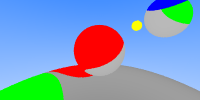
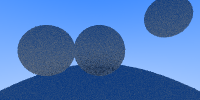
Removed hard shadow code for now. First attempt at diffuse lighting, doesn't work yet :P

diff --git a/classes.py b/classes.py
@@ -43,32 +43,22 @@ class Ray():
             return None
 
     def trace(self, scene):
-
         # check for hits and get hits with lowest ray parameter
         hit_result = self.get_intersection(scene.scene_objects)
 
         # if there was a hit draw it, else draw background
         if hit_result:
-            # create a ray from hitpoint towards the light
-            hit_point = self.get_point(hit_result[0])
-            shadow_origin = hit_point + hit_result[1].get_normal(hit_point) * 0.0001
-            shadow_direction = scene.lights[0].position - shadow_origin
-            shadow_ray = Ray(shadow_origin, shadow_direction)
+            # trace a new ray in a random direction
+            new_origin = self.get_point(hit_result[0])
+            new_target = new_origin + hit_result[1].get_normal(new_origin) + helpers.random_point()
+            new_direction = (new_target - new_origin).get_unit()
+            new_ray = Ray(new_origin, new_direction)
 
-            # don't check for shadow intersection with self
-            scene_without_self = scene.scene_objects[:]
-            scene_without_self.remove(hit_result[1])
-
-            shadow_result = shadow_ray.get_intersection(scene_without_self, any_hit=True)
+            col  = new_ray.trace(scene) * 0.5
             
-            if shadow_result:
-                col = shadow_result[1].color_vector
-            else:
-                col = helpers.distance_to_greyscale(hit_result[0], min_value=1, max_value=10)
-                # col = min_object.color_vector.get_rgb()
-        elif self.hit_sphere(scene.lights[0].render_sphere):
-            # draw the light
-            col = Vec3(1,1,0)
+        # elif self.hit_sphere(scene.lights[0].render_sphere):
+        #     # draw the light
+        #     col = Vec3(1,1,0)
         else:
             # draw the background
             col = helpers.color(self)
@@ -113,6 +103,12 @@ class Vec3():
     def get_unit(self):
         length = self.get_length()
         return Vec3(self.x / length, self.y / length, self.z / length)
+
+    def get_rgb(self):
+        return (self.x * 255, self.y * 255, self.z * 255)
+
+    def get_squared(self):
+        return self.x**2 + self.y**2 + self.z**2
     
     def dot(self, other):
         return self.x * other.x + self.y * other.y + self.z * other.z
@@ -135,9 +131,6 @@ class Vec3():
             return Vec3(self.x / other.x, self.y / other.y, self.z / other.z)
         else:
             return Vec3(self.x / other, self.y / other, self.z / other)
-
-    def get_rgb(self):
-        return (self.x * 255, self.y * 255, self.z * 255)
 
     def __str__(self):
         return str(self.get_tuple())

diff --git a/rt.py b/rt.py
@@ -15,8 +15,8 @@ def render(scene, cam=Camera(200, 100), num_rays=1):
             
             # shoot multiple rays within pixel
             for i in range(num_rays):
-                ray_x = world_x + rnd.random() * cam.x_step
-                ray_y = world_y + rnd.random() * cam.y_step
+                ray_x = world_x + rnd.uniform(0,1) * cam.x_step
+                ray_y = world_y + rnd.uniform(0,1) * cam.y_step
 
                 # shoot ray through pixel
                 ray = Ray(Vec3(0,0,0), Vec3(ray_x, ray_y, -1))
@@ -41,10 +41,11 @@ def main():
         scene.add_light(Light(Vec3(.75,.5,-2)))
         scene.add_scene_object(Sphere(Vec3(0,-4.3,-2), 4)) # blue sphere
         scene.add_scene_object(Sphere(Vec3(0,0,-2), 0.5, Vec3(0,1,0))) # green sphere
+        scene.add_scene_object(Sphere(Vec3(-1,0,-2), 0.5, Vec3(1,1,0))) # green sphere
         scene.add_scene_object(Sphere(Vec3(red_x,.5,red_z), 0.3, Vec3(1,0,0))) # red sphere
 
         # save final image
-        image = Image.fromarray(render(scene, camera, num_rays=25))
+        image = Image.fromarray(render(scene, camera, num_rays=10))
         image.save(f"imgs/test{i:03}.png")
 
         print(f"i:{i}, x:{red_x}, z:{red_z}")

diff --git a/helpers.py b/helpers.py
@@ -1,4 +1,5 @@
 import classes
+import random as rnd
 
 def distance_to_greyscale(value, min_value=0, max_value=100):
     value = (value - min_value) / (max_value - min_value)
@@ -10,3 +11,9 @@ def color(ray):
     t = unit_dir.y + 1
     color_vector = classes.Vec3(1,1,1) * (1 - t) + classes.Vec3(0.5,0.7,1.0) * t
     return color_vector
+
+def random_point():
+    point = classes.Vec3(9999,9999,9999)
+    while point.get_squared() >= 1:
+        point = classes.Vec3(rnd.uniform(-1,1),rnd.uniform(-1,1),rnd.uniform(-1,1))
+    return point
